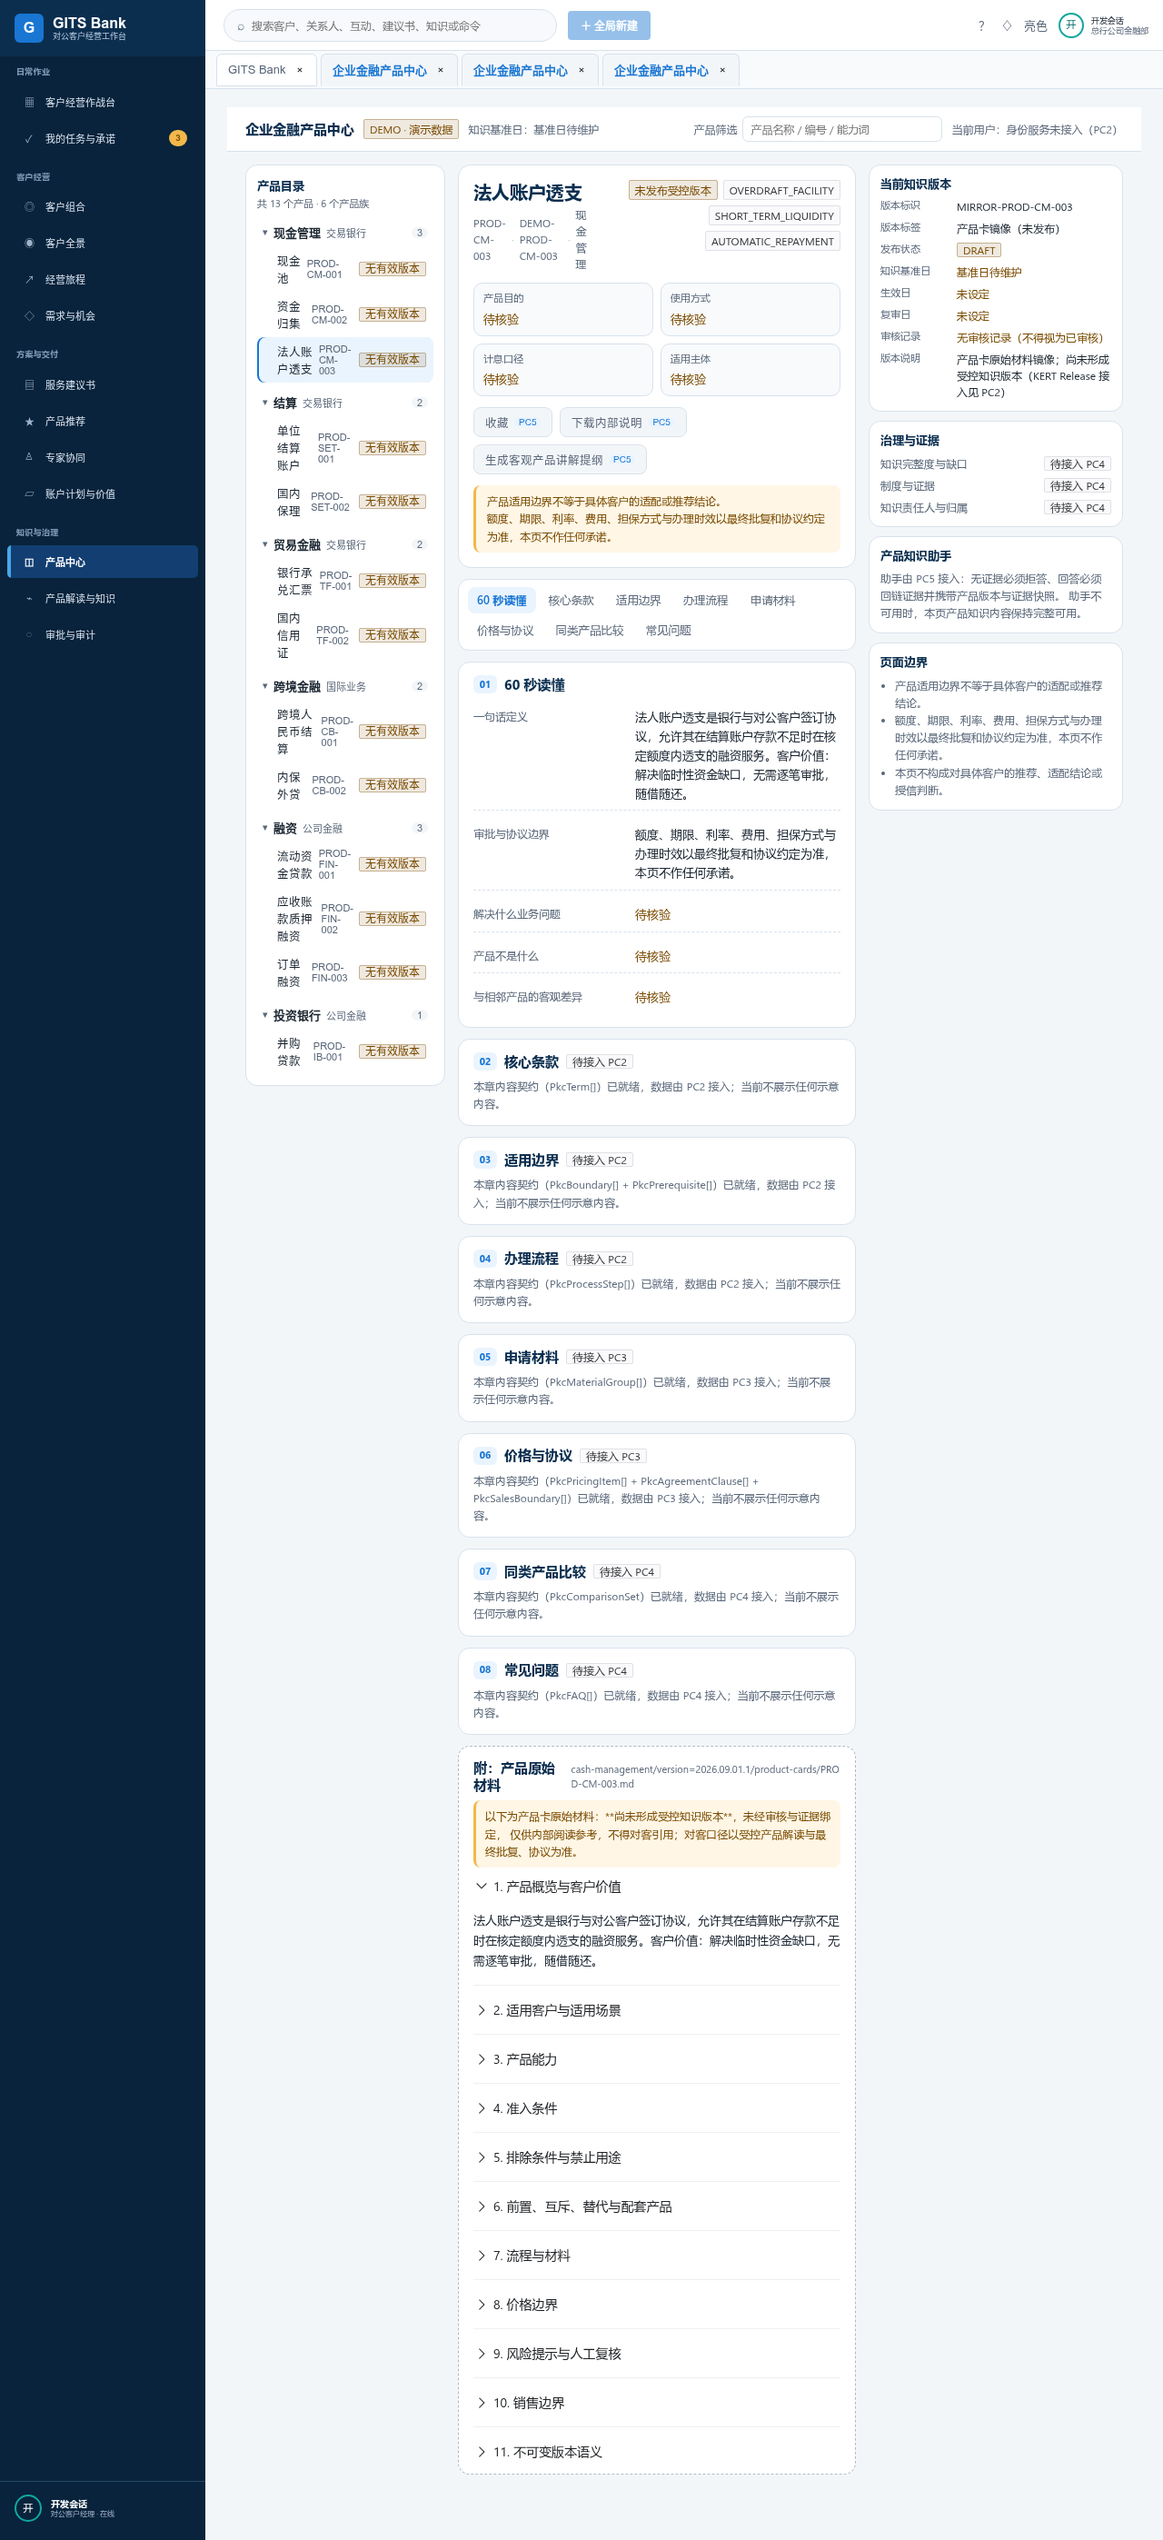
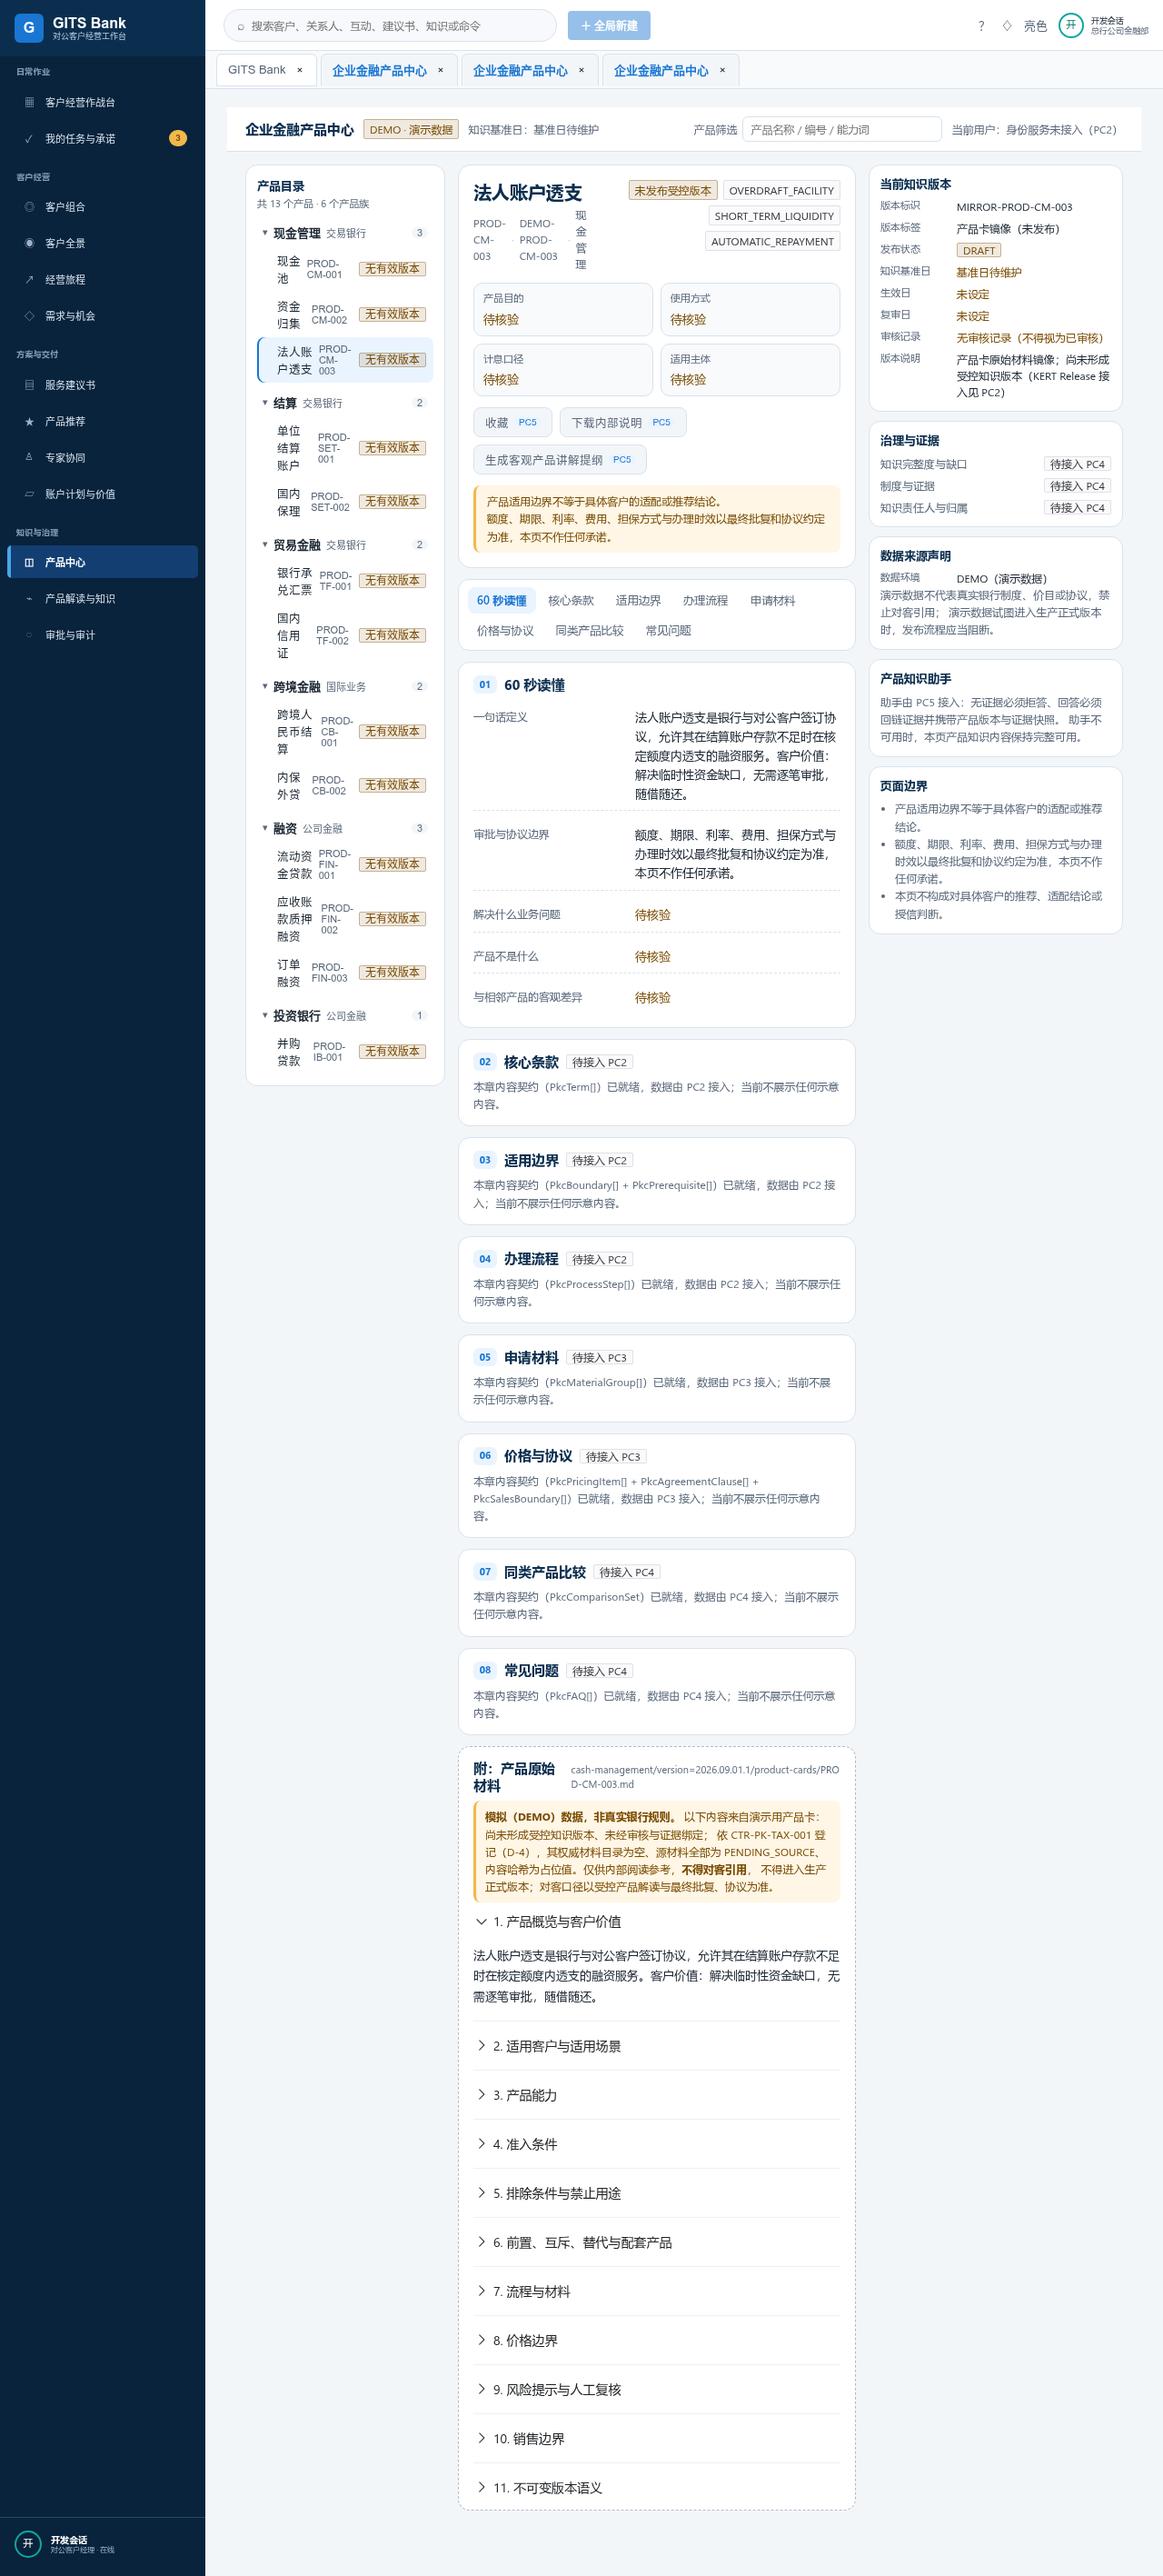
fix(product-center): 演示数据强制声明 + 数据来源与可信度清单（DP-01~06）
动机：Owner 指出「所有数据都是模拟的」，并禁止用演示值论证业务价值。

变更：
- docs/dispatch/PI-DATA-PROVENANCE-数据来源与可信度清单-V1.0.md：登记 D-1~D-7
  （产品卡/解读投影/Release/分类法/种子/情景种子/本会话代码），逐项给出 commit、日期、
  自述可信级别与「可否用于业务论证」；DP-02 明确演示值禁止进入业务论证
- 原始材料区警示升级：模拟（DEMO）数据，非真实银行规则 + 未受控 + 不得对客引用
  + 不得进入生产正式版本（并修掉此前残留在文案中的 Markdown 星号）
- 右栏新增「数据来源声明」：环境（来自合同 version.environment/isDemo）+ 禁止对客引用 + 生产阻断
- 断言：单测与 e2e 新增演示数据声明、环境标识、禁止对客引用、生产阻断文本

验证：vue-tsc 0 错误；vitest 360/360（66 文件）；playwright e2e 2/2（真实后端）；截图刷新；loop-guard 双 PASS
Loop: PC1-product-center-shell

diff --git a/frontend/src/views/__tests__/ProductCenterView.spec.ts b/frontend/src/views/__tests__/ProductCenterView.spec.ts
@@ -215,9 +215,12 @@ describe('ProductCenterView PC1 三栏骨架', () => {
     expect(wrapper.find('[data-testid="pc-chapter"][data-section-key="OVERVIEW"]').text())
       .toContain('用于满足企业日常经营周转')
 
-    // 右侧治理栏：版本 DRAFT + 无审核记录 + 助手未启用
+    // 右侧治理栏：版本 DRAFT + 无审核记录 + 助手未启用 + 演示数据来源声明（DP-04）
     expect(wrapper.find('[data-testid="pc-governance"]').text()).toContain('DRAFT')
     expect(wrapper.find('[data-testid="pc-governance"]').text()).toContain('无审核记录')
+    expect(wrapper.find('[data-testid="pc-data-environment"]').text()).toBe('DEMO（演示数据）')
+    expect(wrapper.find('[data-testid="pc-data-provenance"]').text()).toContain('不代表真实银行制度')
+    expect(wrapper.find('[data-testid="pc-data-provenance"]').text()).toContain('禁止对客引用')
     expect(wrapper.find('[data-testid="pc-assistant-disabled"]').exists()).toBe(true)
     expect(wrapper.findAll('[data-testid="pc-gov-pending"]')).toHaveLength(3)
   })

diff --git a/frontend/src/components/product-center/ProductGovernancePanel.vue b/frontend/src/components/product-center/ProductGovernancePanel.vue
@@ -77,6 +77,22 @@ function orPending(value: string | null | undefined) {
     </section>
 
     <section class="pc-gov-block">
+      <h2 class="pc-gov-title">数据来源声明</h2>
+      <dl class="pc-gov-list">
+        <div>
+          <dt>数据环境</dt>
+          <dd data-testid="pc-data-environment">
+            {{ detail.version.environment }}{{ detail.version.isDemo ? '（演示数据）' : '' }}
+          </dd>
+        </div>
+      </dl>
+      <p class="pc-gov-note" data-testid="pc-data-provenance">
+        演示数据不代表真实银行制度、价目或协议，禁止对客引用；
+        演示数据试图进入生产正式版本时，发布流程应当阻断。
+      </p>
+    </section>
+
+    <section class="pc-gov-block">
       <h2 class="pc-gov-title">产品知识助手</h2>
       <p v-if="!detail.assistant.enabled" class="pc-gov-note" data-testid="pc-assistant-disabled">
         助手由 PC5 接入：无证据必须拒答、回答必须回链证据并携带产品版本与证据快照。

diff --git a/frontend/src/components/product-center/ProductSourceMaterial.vue b/frontend/src/components/product-center/ProductSourceMaterial.vue
@@ -50,8 +50,11 @@ watch(() => props.productId, load, { immediate: true })
     </header>
 
     <p class="pc-source-warning" data-testid="pc-source-warning">
-      以下为产品卡原始材料：**尚未形成受控知识版本**，未经审核与证据绑定，
-      仅供内部阅读参考，不得对客引用；对客口径以受控产品解读与最终批复、协议为准。
+      <strong>模拟（DEMO）数据，非真实银行规则。</strong>
+      以下内容来自演示用产品卡：尚未形成受控知识版本、未经审核与证据绑定；
+      依 CTR-PK-TAX-001 登记（D-4），其权威材料目录为空、源材料全部为 PENDING_SOURCE、
+      内容哈希为占位值。仅供内部阅读参考，<strong>不得对客引用</strong>，
+      不得进入生产正式版本；对客口径以受控产品解读与最终批复、协议为准。
     </p>
 
     <p v-if="loading" class="pc-source-state"><NSpin size="small" /> 原始材料加载中…</p>

diff --git a/frontend/e2e/product-center-pc1.spec.ts b/frontend/e2e/product-center-pc1.spec.ts
@@ -65,6 +65,12 @@ test.describe('PC1 产品中心三栏骨架', () => {
     expect(sourceFile).toContain('product-cards/PROD-CM-003.md')
     expect(sourceFile.startsWith('/')).toBe(false)
 
+    // ⑥b 演示数据必须显式声明（DP-04）：不得让读者误以为是真实银行规则
+    await expect(page.getByTestId('pc-source-warning')).toContainText('模拟（DEMO）数据，非真实银行规则')
+    await expect(page.getByTestId('pc-data-environment')).toContainText('DEMO（演示数据）')
+    await expect(page.getByTestId('pc-data-provenance')).toContainText('不代表真实银行制度')
+    await expect(page.getByTestId('pc-data-provenance')).toContainText('禁止对客引用')
+
     // ⑦ 边界回归：不得出现推荐性用语，且不得泄露本机路径
     const text = await page.locator('body').innerText()
     for (const forbidden of ['适配分', '立即推荐', '加入客户方案', '测算适配度', '下一最佳行动', '胜率']) {

diff --git a/frontend/src/components/product-center/__tests__/ProductSourceMaterial.spec.ts b/frontend/src/components/product-center/__tests__/ProductSourceMaterial.spec.ts
@@ -42,6 +42,9 @@ describe('ProductSourceMaterial', () => {
     expect(warning.exists()).toBe(true)
     expect(warning.text()).toContain('尚未形成受控知识版本')
     expect(warning.text()).toContain('不得对客引用')
+    // 演示数据必须显式声明（DP-04）：不得让读者误以为是真实银行规则
+    expect(warning.text()).toContain('模拟（DEMO）数据，非真实银行规则')
+    expect(warning.text()).toContain('不得进入生产正式版本')
 
     expect(wrapper.find('[data-testid="pc-source-file"]').text())
       .toBe('cash-management/version=2026.09.01.1/product-cards/PROD-CM-003.md')

diff --git a/docs/dispatch/PI-DATA-PROVENANCE-数据来源与可信度清单-V1.0.md b/docs/dispatch/PI-DATA-PROVENANCE-数据来源与可信度清单-V1.0.md
@@ -1,0 +1,52 @@
+# PI 数据来源与可信度清单 V1.0
+
+> 触发：Owner 指出「这里所有数据都是模拟的」，要求停止用演示值论证业务价值。
+> 本文件是**强制前置**：此后任何汇报、设计评审、验收说明，凡引用数据，必须带本清单的行号；
+> **演示（DEMO）值禁止进入业务论证**。
+
+```text
+生成时间：2026-09-22
+生成人：tech_lead
+适用范围：gits-cbanking / Leibniz-KERT 两仓中，与「对公产品中心 / 产品解读」相关的全部数据
+状态：IN_FORCE（立即生效）
+```
+
+## 1. 强制规则
+
+| 编号 | 规则 |
+|---|---|
+| `DP-01` | 引用任何产品数据，必须标注本清单行号 + 数据可信级别 |
+| `DP-02` | 可信级别为 `DEMO_SIMULATED` / `PLACEHOLDER` 的数据，**只能**用于说明系统结构与渲染行为，**不得**用于论证业务价值、业务规则、业务口径 |
+| `DP-03` | 任何"业务优劣 / 业务高明"结论，只能基于**设计推理**（目标用户、待办任务、失败模式、成本），不得基于上述数据值 |
+| `DP-04` | 页面与接口中，`DEMO_SIMULATED` 数据必须常驻标识，且不得呈现为「已核验口径」 |
+| `DP-05` | `DEMO_SIMULATED` 数据欲进入生产正式版本 → 发布流程必须阻断（需求 03 §8） |
+| `DP-06` | 如需真实业务口径，须由业务侧提供制度/价目/协议原文（真实或脱敏），并单独登记来源 |
+
+## 2. 清单
+
+| # | 数据 | 路径 | 引入 commit | 日期 | 自述可信级别 | 可否用于业务论证 |
+|---|---|---|---|---|---|---|
+| D-1 | 13 张产品卡（含法人账户透支 `PROD-CM-003`） | `Leibniz-KERT/examples/product-recommendation-assets/03_core/*/product-cards/PROD-*.md` | `a237ce7`→`699106b` | 2026-09-01 / 09-13 | `CANDIDATE`（MANIFEST §4：全部资产 CANDIDATE / FROZEN=NO / IMPLEMENTED=NO）；`01_raw/_authoritative/` 为空；27 源全部 `PENDING_SOURCE`；`content_hash` 为占位假值（如 `sha256:cm001hash`） | **否**（仅可说明系统现状） |
+| D-2 | 解读投影 `interpretation/PROD-CM-001.json` | 同上 `04_serve/interpretation/` | `5f3a2b8` | 2026-09-06/07 | `provenanceState = DEMO`；`lifecycleState = PUBLISHED`（仅表示发布流程状态，不代表内容真实） | **否** |
+| D-3 | Release 记录 `RLS-2026.09.06.1.json` | 同上 `04_serve/releases/` | `5f3a2b8` | 2026-09-06/07 | 同上（含 `gateReport` / `ownerDecisionIds`，属流程证据，非业务口径证据） | **否** |
+| D-4 | 产品分类基线 `product-taxonomy.yaml` | `gits-cbanking/specs/product-knowledge/` | `e7abd7b` | 2026-09-10 | 自述 `CANDIDATE / FROZEN=NO / IMPLEMENTED=NO`；文件内 D-1~D-4 已知差异登记 | **否**（结构可引用，族名/规模可引用为"当前基线"） |
+| D-5 | 产品知识版本种子 `V021__corporate_product_knowledge_seed.sql` | `gits-cbanking/adapters/persistence-relational/.../db/migration/h2/` | `1bd4363` | 2026-09-14 | 文件自述：**"本表为产品知识版本元数据，非产品卡权威源"** | **否** |
+| D-6 | 情景种子（客户 `CUST-CORP-0001` 等） | `gits-cbanking/scenario/seed/` | 历史提交 | ≤ 2026-09-14 | KERT 侧 commit 明示 `simulated customer` | **否** |
+| D-7 | PC1/PC1.5 代码、测试、Loop 文档 | `gits-cbanking`（`apps/api/.../productcenter/`、`frontend/src/components/product-center/`、`loops/PC1-*`） | `7098022`、`4f22c85` | 2026-09-22 | 代码与测试夹具（无业务数据） | **不适用**（不含业务数据） |
+
+**注意**：单测文件中的 `TAXONOMY` 常量、`PROD-CM-*` 等属**测试夹具**（`apps/api/src/test/...`），是为验证程序行为构造的，与 D-1~D-6 无关，同样不得作为业务依据。
+
+## 3. 由此得出的结论
+
+1. **当前两仓内不存在可用于业务论证的真实产品口径数据。** 任何"业务上更优/更差"的判断，只能来自设计推理。
+2. 因此「对公产品中心」模块可验证的价值只有**机制层**：能表达"未核验"、不可承诺边界、可追溯链、缺口清单、DEMO 隔离与生产阻断。
+3. 要让页面呈现"已核验"的真实口径，必须先有 D-01 规则下的真实来源（制度/价目/协议原文）。
+
+## 4. 已落实的界面处置（PC1.5+）
+
+| 位置 | 处置 |
+|---|---|
+| 环境条 | `DEMO · 演示数据` 常驻标识 |
+| 首屏 / 章节 | 缺失字段一律显示「待核验」，不填推测值 |
+| 知识治理栏 | 新增「数据来源声明」：环境 + 演示数据不代表真实银行制度/价目/协议 + 禁止对客引用 + 生产发布应阻断 |
+| 原始材料区 | 警示升级为「模拟（DEMO）数据，非真实银行规则」，并登记 D-1 的可信度事实 |
